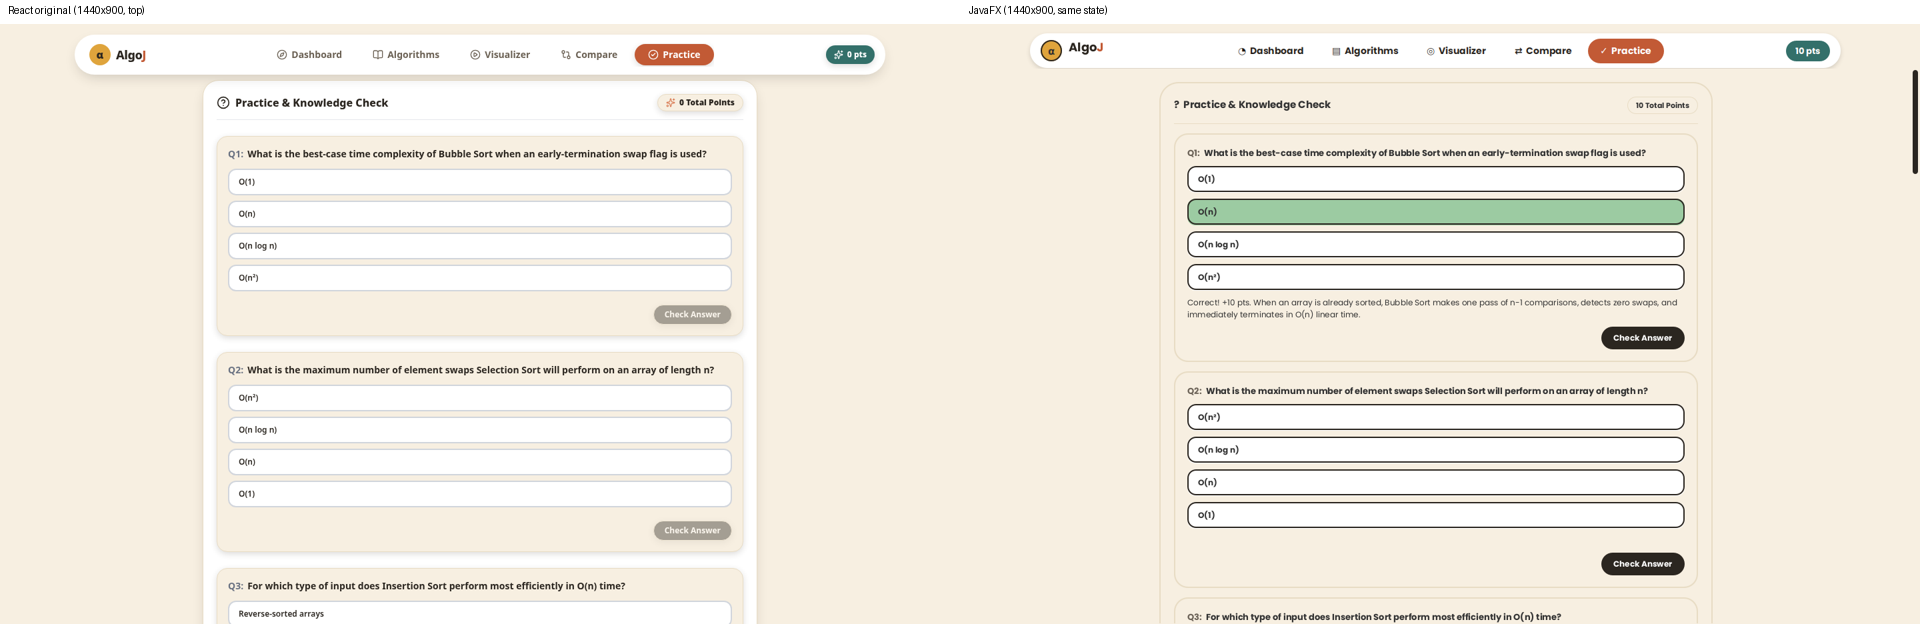
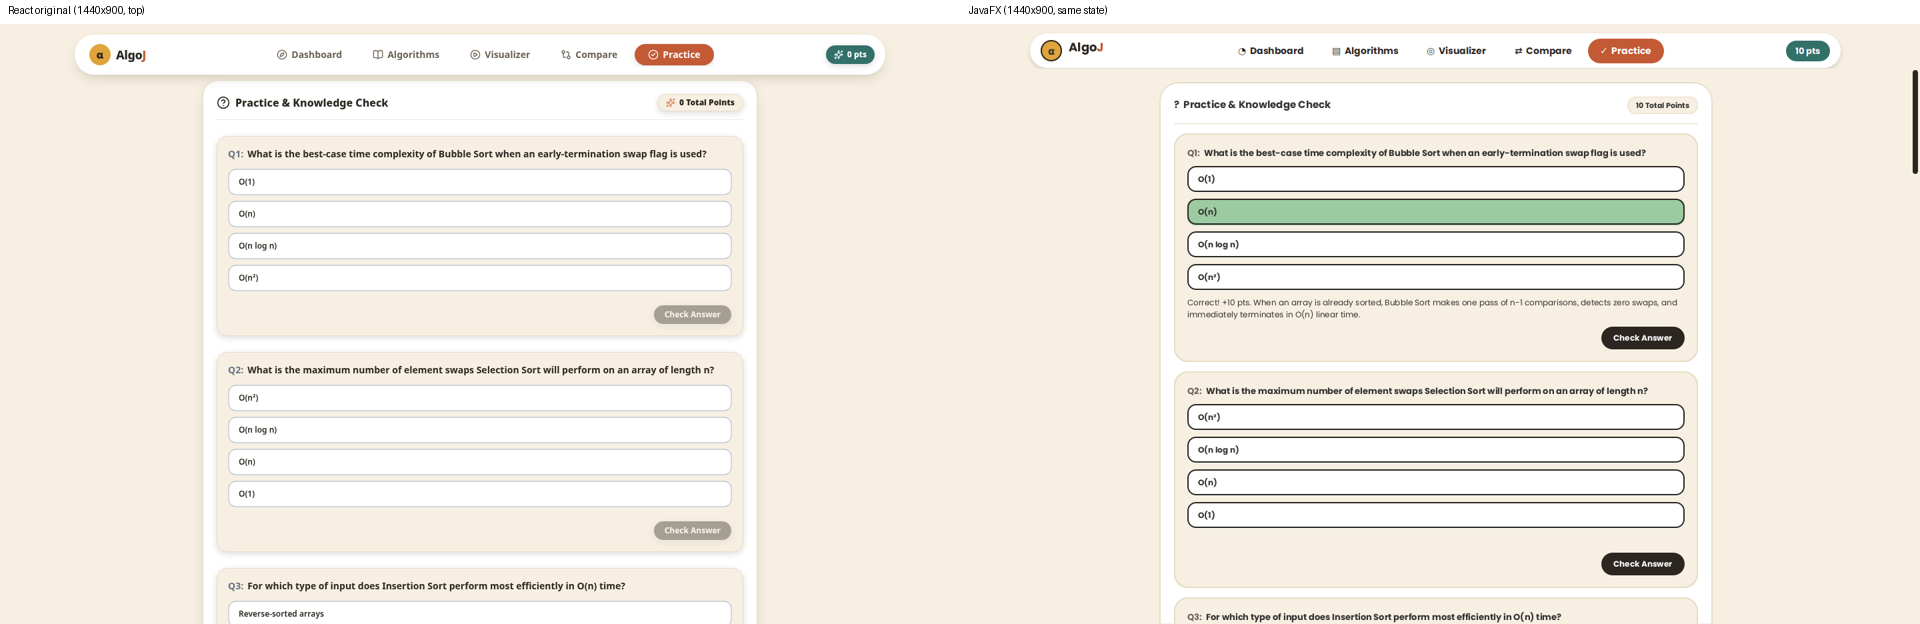
BST op tests, Floyd-Warshall matrix view, compare bar label fix, white practice panel

Changed region(s): [[0.5938, 0.1218, 0.9062, 1.0]]

diff --git a/src/main/java/com/algoj/ui/render/GraphRenderer.java b/src/main/java/com/algoj/ui/render/GraphRenderer.java
@@ -11,11 +11,13 @@ import java.util.Map;
 public class GraphRenderer implements StateRenderer {
     @Override
     public void draw(GraphicsContext g, double w, double h, Object state) {
-        GraphData graph; Map<String, Object> dist = null; String info = null; java.util.List<String> order = null;
+        GraphData graph; Map<String, Object> dist = null; String info = null; java.util.List<String> order = null; Map<String, Object> matrix = null;
         if (state instanceof GraphTraversalState s) { graph = s.getGraph(); order = s.getTraversalOrder(); info = "Queue/Stack: " + s.getQueueOrStack(); }
-        else if (state instanceof ShortestPathState s) { graph = s.getGraph(); dist = s.getDistances(); }
+        else if (state instanceof ShortestPathState s) { graph = s.getGraph(); dist = s.getDistances(); matrix = s.getMatrix(); }
         else if (state instanceof MSTState s) { graph = s.getGraph(); info = "MST weight: " + s.getTotalWeight(); }
         else return;
+        double fullW = w;
+        if (matrix != null) w = fullW * 0.55;
         double scale = Math.min((w - 80) / 560.0, (h - 120) / 220.0), ox = (w - 560 * scale) / 2 - 60 * scale, oy = 40;
         for (GraphEdge e : graph.getEdges()) {
             GraphVertex a = vertex(graph, e.getSource()), b = vertex(graph, e.getTarget());
@@ -53,11 +55,31 @@ public class GraphRenderer implements StateRenderer {
                 Draw.text(g, "d=" + t, x, y + 34, Draw.mono(10), Draw.MUTED);
             }
         }
+        if (matrix != null) drawMatrix(g, fullW, h, matrix);
         if (order != null) Draw.textLeft(g, "Order: " + order, 12, h - 28, Draw.mono(12), Draw.INK);
         if (info != null) Draw.textLeft(g, info, 12, h - 10, Draw.mono(12), Draw.MUTED);
     }
 
     private static GraphVertex vertex(GraphData g, String id) {
         return g.getVertices().stream().filter(v -> v.getId().equals(id)).findFirst().orElse(null);
+    }
+
+    /** Floyd-Warshall's all-pairs distance matrix, redrawn on every step. */
+    private static void drawMatrix(GraphicsContext g, double w, double h, Map<String, Object> matrix) {
+        java.util.List<?> labels = (java.util.List<?>) matrix.get("labels");
+        java.util.List<?> rows = (java.util.List<?>) matrix.get("dist");
+        if (labels == null || rows == null) return;
+        int n = labels.size();
+        double cell = Math.min(40, (h - 90) / (n + 1)), x0 = w * 0.58, y0 = 36;
+        Draw.textLeft(g, "ALL-PAIRS DISTANCE MATRIX", x0, 16, Draw.sans(10, FontWeight.BOLD), Draw.MUTED);
+        for (int i = 0; i < n; i++) {
+            Draw.text(g, String.valueOf(labels.get(i)), x0 + (i + 1.5) * cell, y0 + cell / 2, Draw.mono(11), Draw.MUTED);
+            Draw.text(g, String.valueOf(labels.get(i)), x0 + cell / 2, y0 + (i + 1.5) * cell, Draw.mono(11), Draw.MUTED);
+            java.util.List<?> row = (java.util.List<?>) rows.get(i);
+            for (int j = 0; j < n; j++) {
+                Draw.box(g, x0 + (j + 1) * cell + 1, y0 + (i + 1) * cell + 1, cell - 2, cell - 2, 6, i == j ? Draw.CREAM : Draw.WHITE, Draw.CREAM_BORDER);
+                Draw.text(g, String.valueOf(row.get(j)), x0 + (j + 1.5) * cell, y0 + (i + 1.5) * cell, Draw.mono(11), Draw.INK);
+            }
+        }
     }
 }

diff --git a/src/test/java/com/algoj/StructureOracleTest.java b/src/test/java/com/algoj/StructureOracleTest.java
@@ -222,6 +222,35 @@ class StructureOracleTest {
     }
 
     @Test
+    void bstLevelOrderAndExtremesMatchReference() {
+        BSTStructureEngine engine = new BSTStructureEngine();
+        for (int it = 0; it < 100; it++) {
+            BSTDSState s = engine.createInitial(List.of(50));
+            TreeSet<Integer> ref = new TreeSet<>(List.of(50));
+            for (int i = 0; i < 10; i++) {
+                int v = random.nextInt(40) * 3;
+                s = next(engine, s, Operation.withValue("insert", v));
+                ref.add(v);
+            }
+            // reference breadth-first walk over the model's own links
+            List<Integer> bfs = new ArrayList<>();
+            ArrayDeque<BSTNode> q = new ArrayDeque<>(List.of(s.getRoot()));
+            while (!q.isEmpty()) {
+                BSTNode n = q.poll();
+                bfs.add(n.getValue());
+                if (n.getLeft() != null) q.add(n.getLeft());
+                if (n.getRight() != null) q.add(n.getRight());
+            }
+            assertEquals(bfs, next(engine, s, Operation.of("levelorder")).getTraversalOutput());
+            assertEquals("The minimum is " + ref.first() + ".", next(engine, s, Operation.of("findMin")).getMessage());
+            assertEquals("The maximum is " + ref.last() + ".", next(engine, s, Operation.of("findMax")).getMessage());
+        }
+        BSTDSState fixed = engine.createInitial(List.of(50, 30, 70, 20, 40, 60, 80));
+        assertEquals(List.of(50, 30, 70, 20, 40, 60, 80), next(engine, fixed, Operation.of("levelorder")).getTraversalOutput());
+        assertEquals("Tree is empty: no minimum.", next(engine, engine.createInitial(List.of()), Operation.of("findMin")).getMessage());
+    }
+
+    @Test
     void binarySearchTreeMatchesReferenceAndTraversals() {
         Failures f = new Failures();
         BSTStructureEngine engine = new BSTStructureEngine();

diff --git a/src/main/java/com/algoj/ui/render/ArrayRenderers.java b/src/main/java/com/algoj/ui/render/ArrayRenderers.java
@@ -41,7 +41,7 @@ public final class ArrayRenderers {
             double startX = (w - gap * n) / 2 + (gap - bw) / 2, base = h - 40;
             for (int i = 0; i < n; i++) {
                 int v = bars.get(i)[0];
-                double bh = Math.max(28, Math.round((v - min) / (double) (max - min) * (h - 130) + 28));
+                double bh = Math.max(54, Math.round((v - min) / (double) (max - min) * (h - 150) + 54));
                 Color fill = Draw.CREAM; String badge = null; String st = states.get(i);
                 if (found != null && i == found || "found".equals(st)) { fill = Draw.SAGE; badge = "FOUND"; }
                 else if (pivot != null && i == pivot || "pivot".equals(st)) { fill = Draw.TEAL; badge = "PIVOT"; }
@@ -53,7 +53,7 @@ public final class ArrayRenderers {
                 double x = startX + i * gap;
                 Draw.box(g, x, base - bh, bw, bh, 16, fill, Draw.CREAM_BORDER);
                 Draw.text(g, String.valueOf(v), x + bw / 2, base - bh + 14, Draw.mono(13), Draw.INK);
-                Draw.text(g, "#" + i, x + bw / 2, base - 12, Draw.sans(10, FontWeight.BOLD), Color.rgb(43, 38, 32, 0.6));
+                Draw.text(g, "#" + i, x + bw / 2, base - 10, Draw.sans(10, FontWeight.BOLD), Color.rgb(43, 38, 32, 0.6));
                 if (badge != null) Draw.badge(g, badge, x + bw / 2, base - bh - (i % 2 == 1 ? 30 : 14));
                 StringBuilder ptr = new StringBuilder();
                 if (low != null && i == low) ptr.append("LOW ");

diff --git a/src/main/java/com/algoj/ui/PracticeView.java b/src/main/java/com/algoj/ui/PracticeView.java
@@ -25,7 +25,7 @@ public class PracticeView extends HBox {
         VBox panel = new VBox(14, row(8, title, grow(), score), line);
         panel.setMaxWidth(830);
         panel.setPrefWidth(830);
-        panel.setStyle("-fx-background-color:#F7EFE1;-fx-background-radius:28;-fx-border-color:#E8DCC4;-fx-border-width:2;-fx-border-radius:28;-fx-padding:20;");
+        panel.setStyle("-fx-background-color:white;-fx-background-radius:28;-fx-border-color:#E8DCC4;-fx-border-width:2;-fx-border-radius:28;-fx-padding:20;");
         int n = 1;
         for (var q : svc.catalog().questions())
             panel.getChildren().add(new QuestionCard(n++, q, svc.quizzes(), () -> { update.run(); onScoreChange.run(); }));

diff --git a/src/main/java/com/algoj/ui/render/RecursionRenderers.java b/src/main/java/com/algoj/ui/render/RecursionRenderers.java
@@ -42,7 +42,7 @@ public final class RecursionRenderers {
             if (s.getDpArray() != null && !s.getDpArray().isEmpty()) cells(g, w, h - 70, "dp[]", s.getDpArray(), s.getCurrentIndex());
             if (s.getMemoTable() != null && !s.getMemoTable().isEmpty()) {
                 List<Integer> v = new ArrayList<>(s.getMemoTable().values());
-                cells(g, w, h - 20, "memo", v, null);
+                cells(g, w, h - 60, "memo", v, null);
             }
             if (s.getResult() != null) Draw.text(g, "fib(" + s.getN() + ") = " + s.getResult(), w / 2, h - 110, Draw.mono(15), Draw.INK);
         }

diff --git a/src/main/java/com/algoj/ui/CompareView.java b/src/main/java/com/algoj/ui/CompareView.java
@@ -21,6 +21,7 @@ public class CompareView extends VBox {
     private final Playback playback = new Playback();
     private final Services svc;
     private final TextField input = new TextField("45, 12, 85, 32, 89, 39, 69, 44, 42, 1, 10");
+    { input.setPromptText("shared array"); }
     private final ComboBox<AlgorithmInfo> pickA = new ComboBox<>(), pickB = new ComboBox<>();
     private final Canvas canvasA = new Canvas(560, 290), canvasB = new Canvas(560, 290);
     private final Label[] cmpA = stat(), cmpB = stat();
